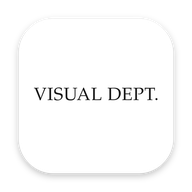
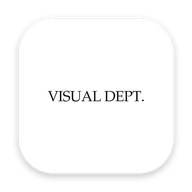
아이콘 글자 축소·자간 좁힘, 뉴스 제목·요약 한/영 번역, 태그 한글 표시
Claude-Session: https://claude.ai/code/session_016iQssjkfjgjy4N2y3kdkik

Changed region(s): [[0.1562, 0.4375, 0.8438, 0.5312]]

diff --git a/index.html b/index.html
@@ -1,8 +1,8 @@
 <!doctype html>
 <html lang="en"><head><meta charset="utf-8"><meta name="viewport" content="width=device-width,initial-scale=1,viewport-fit=cover">
 <title>VISUAL DEPT.</title>
-<meta name="theme-color" content="#ffffff"><link rel="manifest" href="manifest.webmanifest?v=3"><link rel="icon" href="icon-192.png?v=3"><link rel="apple-touch-icon" id="ati" href="apple-touch-icon.png?v=3">
-<script>if(/Mac/.test(navigator.platform)&&!navigator.maxTouchPoints)document.getElementById("ati").href="apple-touch-icon-mac.png?v=3"</script>
+<meta name="theme-color" content="#ffffff"><link rel="manifest" href="manifest.webmanifest?v=4"><link rel="icon" href="icon-192.png?v=4"><link rel="apple-touch-icon" id="ati" href="apple-touch-icon.png?v=4">
+<script>if(/Mac/.test(navigator.platform)&&!navigator.maxTouchPoints)document.getElementById("ati").href="apple-touch-icon-mac.png?v=4"</script>
 <meta name="apple-mobile-web-app-capable" content="yes"><meta name="apple-mobile-web-app-title" content="VISUAL DEPT."><meta name="apple-mobile-web-app-status-bar-style" content="default">
 <style>body{margin:0}img{max-width:100%}[hidden]{display:none!important}:root{padding-top:env(safe-area-inset-top,0px);padding-bottom:env(safe-area-inset-bottom,0px)}</style>
 <script src="config.js"></script>
@@ -768,7 +768,7 @@ function home(){
   const s=SLIDES;if(!s.length)return `<section class="gut max"><div class="empty" style="padding-top:120px"><b>${t("News is on its way","뉴스를 모으는 중이에요")}</b>${t("Articles are collected every 2 hours. Check back soon.","기사는 2시간마다 자동으로 모여요. 잠시 후 다시 확인해 주세요.")}</div></section>`;
   return `<section class="slider" id="slider" aria-roledescription="carousel" aria-label="${t("Today's issues","오늘의 이슈")}">
    ${s.map((x,i)=>`<div class="slide ${i===slideI?"on":""}" role="group" aria-label="${i+1} / ${s.length}" data-img><img class="bgi" src="${esc(x.img)}" alt="" aria-hidden="true" ${IMGATTR} ${i>1?'loading="lazy"':""}><img class="fgi" src="${esc(x.img)}" alt="" ${IMGATTR} ${i>1?'loading="lazy"':""} onload="fitSlide(this)" ${slideFail}>
-     <div class="cap gut"><h2>${esc(shortT(t(x.title_en||x.title,x.title),lang==="ko"?42:78))}</h2>${x.summary?`<p>${esc(shortT(x.summary,lang==="ko"?90:150))}</p>`:""}
+     <div class="cap gut"><h2>${esc(shortT(tTitle(x),lang==="ko"?42:78))}</h2>${tSum(x)?`<p>${esc(shortT(tSum(x),lang==="ko"?90:150))}</p>`:""}
      <div class="acts"><a class="ext" href="${esc(x.url)}" target="_blank" rel="noopener">${t("Read","원문 보기")} ${SV.arrow}</a><button class="save" data-save="s:${i}">${isSaved(x.id)?SV.bookf:SV.book}<span>${isSaved(x.id)?t("Saved","저장됨"):t("Save","저장")}</span></button></div></div></div>`).join("")}
    <div class="pager gut"><div class="nums">${s.map((_,i)=>`<button data-sl="${i}" class="${i===slideI?"on":""}" aria-label="${i+1}">${String(i+1).padStart(2,"0")}</button>`).join("")}</div><span class="sp"></span><button class="arr" data-sl="prev" aria-label="Previous">${SV.l}</button><button class="arr" data-sl="next" aria-label="Next">${SV.r}</button></div>
    <span class="prog" id="prog"></span></section>
@@ -776,12 +776,17 @@ function home(){
     <div class="tools"><label class="vh" for="nq">${t("Search news","뉴스 검색")}</label><input class="inp" id="nq" type="search" placeholder="${t("Search news","뉴스 검색")}" value="${esc(newsQ)}"></div></div>
     <ul class="news" id="newsList">${newsRows()}</ul></section>`;
 }
-function newsRows(){const q=newsQ.trim().toLowerCase();const list=NEWS.filter(x=>!q||[x.title,x.title_en,x.summary,x.source,(x.tags||[]).join(" ")].join(" ").toLowerCase().includes(q));
+const HAN=/[\uac00-\ud7a3]/;
+const tTitle=x=>lang==="ko"?(x.title_ko||x.title||x.title_en||""):(x.title_en&&!HAN.test(x.title_en)?x.title_en:(x.title_en||x.title||""));
+const tSum=x=>lang==="ko"?(x.summary_ko||x.summary||x.text||""):(x.summary_en||x.text_en||x.summary||x.text||"");
+const TAGKO={sheer:"시어",skirt:"스커트",lingerie:"란제리 레이어링",check:"체크",tailoring:"테일러링",leather:"레더",denim:"데님",knit:"니트",purple:"퍼플·라일락",orange:"오렌지",metallic:"메탈릭",leopard:"레오파드",boho:"보호",belt:"벨트","creative director":"디렉터 이동",retail:"리테일·실적",korea:"국내 시장",sustainability:"지속가능성",accessories:"액세서리",layering:"레이어링",jewelry:"주얼리",collaboration:"협업",outerwear:"아우터",luxury:"럭셔리",market:"시장",materials:"소재",trench:"트렌치","trench coat":"트렌치코트",oversize:"오버사이즈",oversized:"오버사이즈",wool:"울",cotton:"코튼",expansion:"확장",sourcing:"소싱",imagery:"이미지",consumer:"소비자"};
+const tagName=g=>lang==="ko"?(TAGKO[String(g).toLowerCase()]||DATA.ko[g]||g):g;
+function newsRows(){const q=newsQ.trim().toLowerCase();const list=NEWS.filter(x=>!q||[x.title,x.title_en,x.title_ko,x.summary,x.summary_ko,x.summary_en,x.source,(x.tags||[]).join(" ")].join(" ").toLowerCase().includes(q));
   if(!list.length)return `<li class="empty"><b>${t("No matching news","찾는 뉴스가 없어요")}</b>${t("Try another keyword.","다른 키워드로 찾아 보세요.")}</li>`;
   return list.slice(0,newsN).map(x=>newsRow(x)).join("")+(list.length>newsN?`<li><button class="more" data-more>${t("More","더 보기")} (${list.length-newsN})</button></li>`:"")}
 function newsRow(x){return `<li class="nrow"><div class="d">${fmtMD(x.publishedAt||x.savedAt)}<b>${esc(x.source)}</b></div>
-  <div><h3><a href="${esc(x.url)}" target="_blank" rel="noopener">${esc(t(x.title_en||x.title,x.title))}</a></h3>${lang==="ko"&&x.summary?`<p>${esc(x.summary)}</p>`:(x.title_en&&lang==="en"?`<p>${esc(x.title)}</p>`:"")}
-  <div class="tg">${(x.tags||[]).slice(0,4).map(g=>"#"+esc(g)).join("  ")}</div></div>
+  <div><h3><a href="${esc(x.url)}" target="_blank" rel="noopener">${esc(tTitle(x))}</a></h3>${tSum(x)?`<p>${esc(shortT(tSum(x),lang==="ko"?140:240))}</p>`:""}
+  <div class="tg">${(x.tags||[]).slice(0,4).map(g=>"#"+esc(tagName(g))).join("  ")}</div></div>
   ${x.img?`<a class="th" href="${esc(x.url)}" target="_blank" rel="noopener" data-src="${esc(x.source||"")}"><img src="${esc(x.img)}" alt="" loading="lazy" ${IMGATTR} ${thumbFail}></a>`:`<a class="th ph" href="${esc(x.url)}" target="_blank" rel="noopener" aria-hidden="true" tabindex="-1"><span>${esc(x.source||"")}</span></a>`}
   <div class="side"><button class="save" data-save="n:${esc(x.id)}" aria-label="${t("Save","저장")}">${isSaved(x.id)?SV.bookf:SV.book}</button><a class="ext" href="${esc(x.url)}" target="_blank" rel="noopener">${t("Read","원문")} ${SV.arrow}</a></div></li>`}
 function startSlider(){clearInterval(slideTimer);const sl=$("#slider");if(!sl)return;const D=6500;
